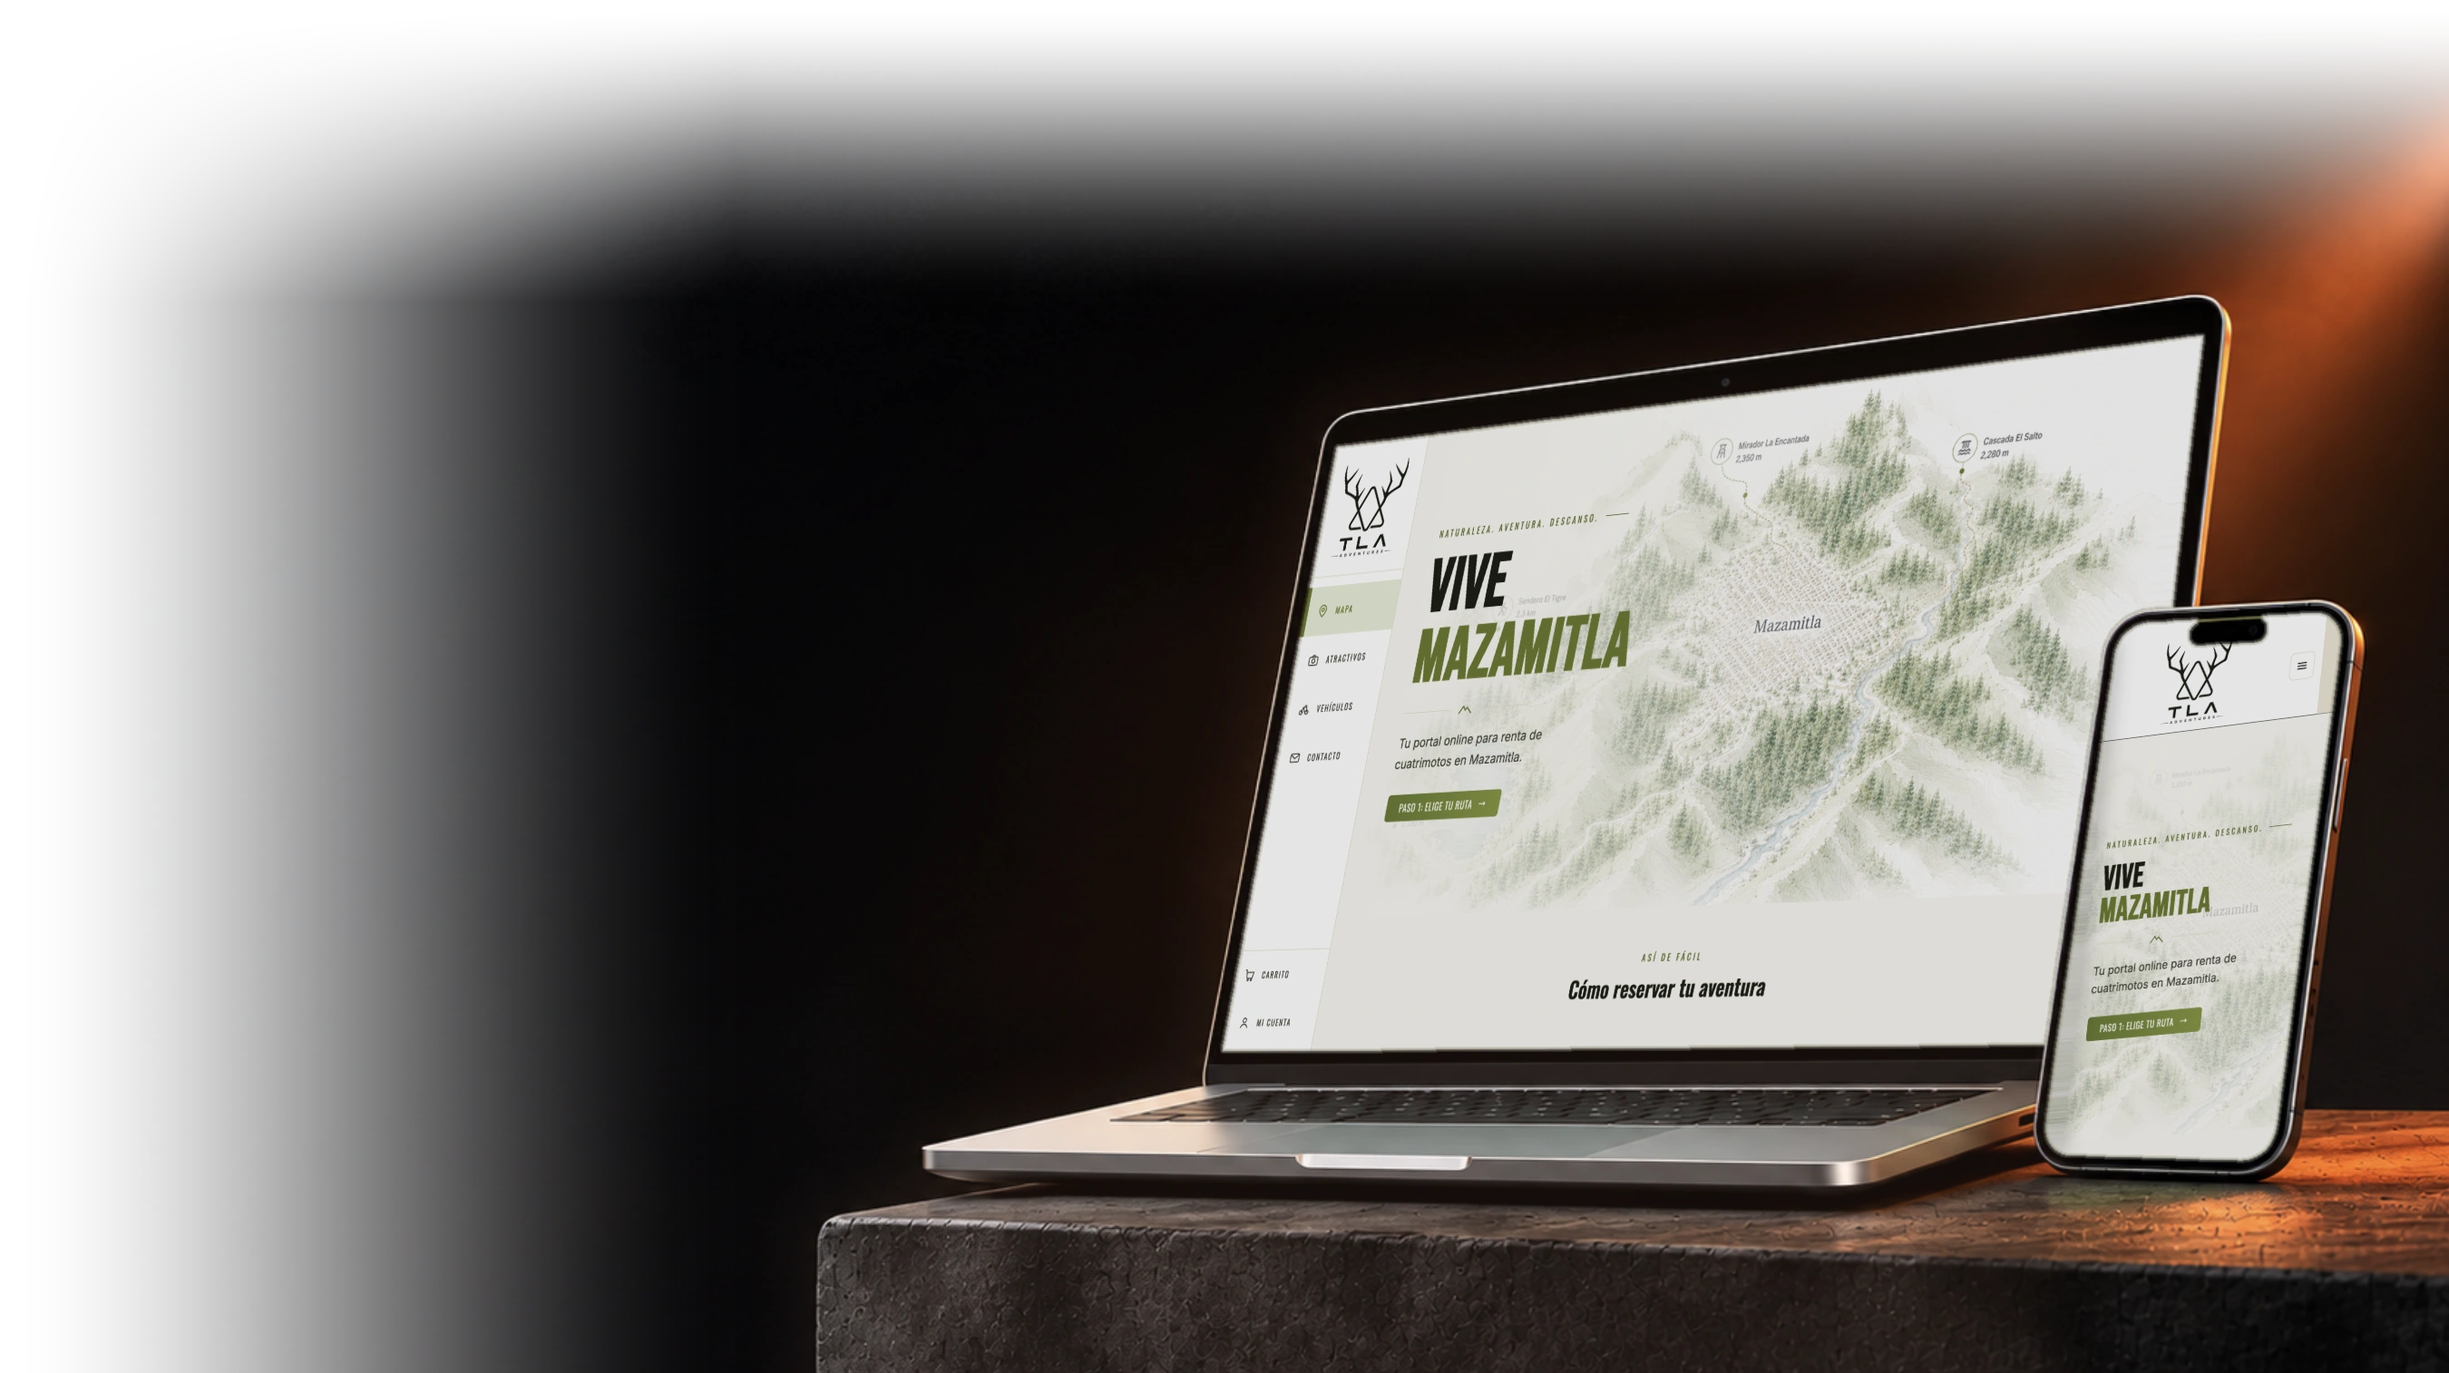
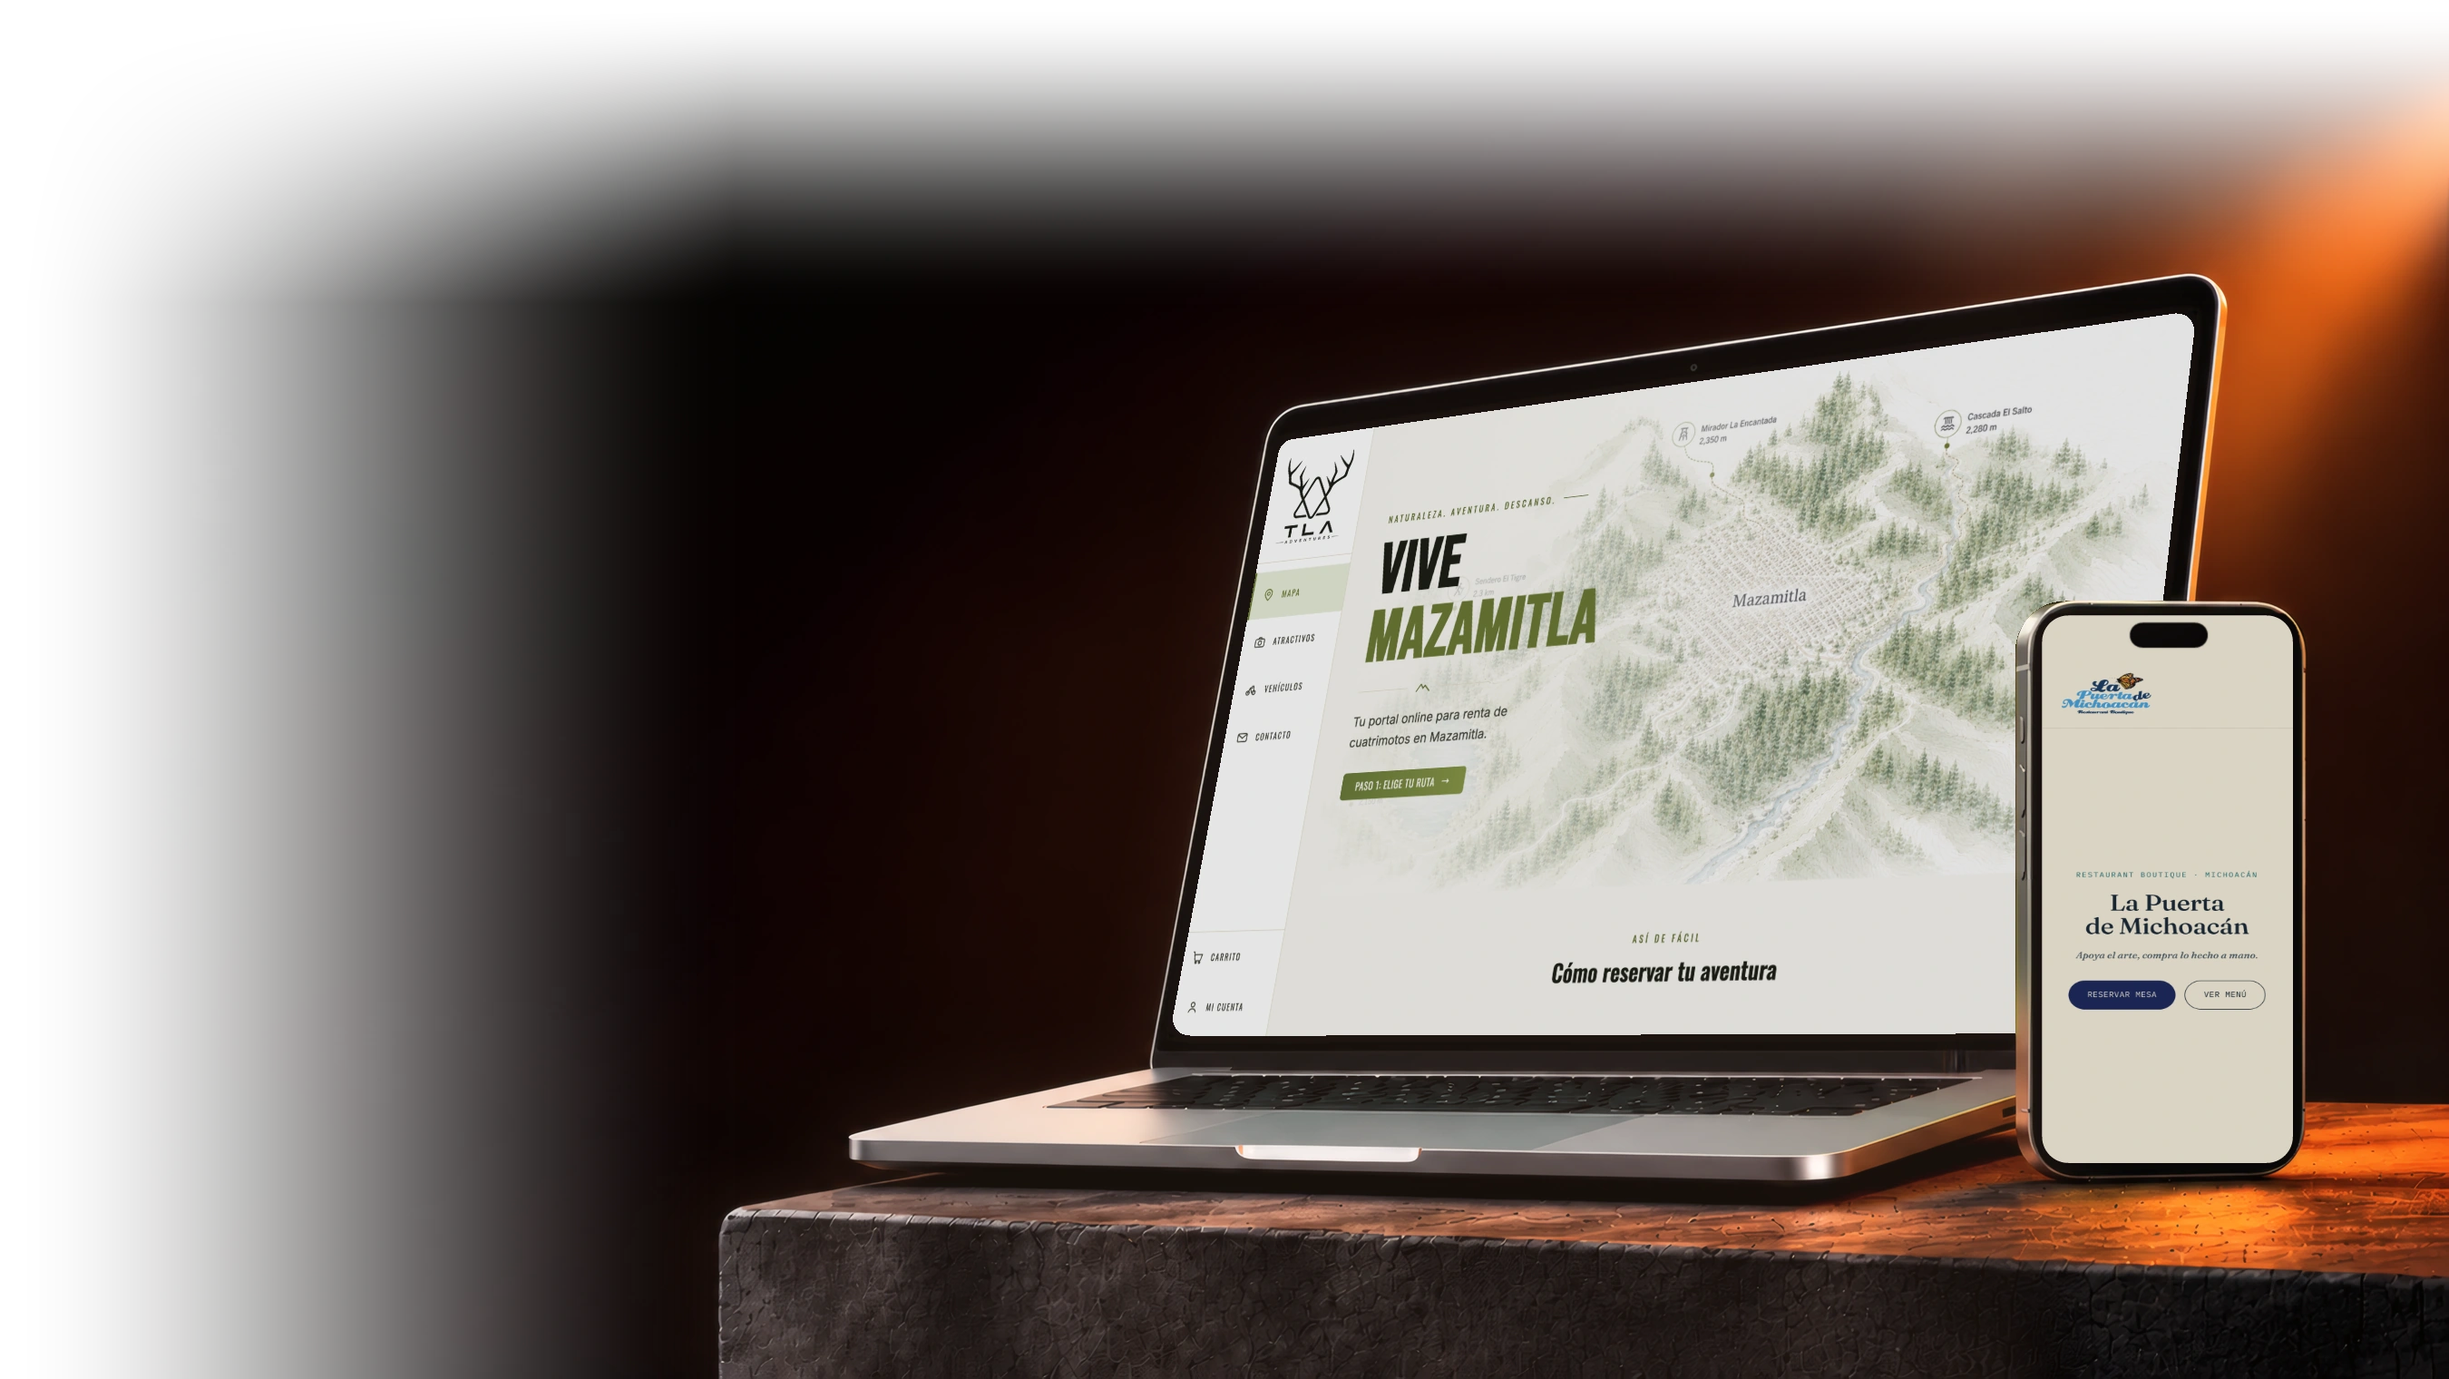
feat(paginas-web): hero con laptop y celular compuestos, bordes nitidos
- render con pantallas en verde plano, escalado 4x antes de componer
- filo metalico y esquinas del celular preservados (recorte medido de la imagen)
- celular con contenido de La Puerta de Michoacan, isla dinamica proporcionada
- variante de 1200 px para movil y alt text actualizado

Claude-Session: https://claude.ai/code/session_01MBbEDMNdh2oub1BAdcJzwz

Changed region(s): [[0.28, 0.0621, 1.0, 1.0]]

diff --git a/components/paginas-web/Hero.tsx b/components/paginas-web/Hero.tsx
@@ -1,4 +1,3 @@
-import Image from 'next/image'
 
 const benefits = [
   {
@@ -98,15 +97,16 @@ export function Hero() {
         </div>
 
         <div className="pointer-events-none relative z-0 mt-10 aspect-[2700/1514] w-full lg:absolute lg:top-0 lg:right-0 lg:bottom-[110px] lg:left-[30%] lg:z-0 lg:mt-0 lg:aspect-auto lg:w-auto lg:[-webkit-mask-image:linear-gradient(to_right,transparent_0%,#000_22%),linear-gradient(to_top,transparent_0%,#000_28%)] lg:[mask-image:linear-gradient(to_right,transparent_0%,#000_22%),linear-gradient(to_top,transparent_0%,#000_28%)] lg:[-webkit-mask-composite:source-in] lg:[mask-composite:intersect]">
-          <Image
-            src="/paginas-web/devices-hero.webp"
-            alt="Captura del sitio de TLA Adventures en laptop y celular"
-            fill
-            priority
-            unoptimized
-            sizes="100vw"
-            className="object-contain object-right lg:object-cover lg:object-[right_bottom]"
-          />
+          <picture>
+            <source media="(min-width: 1024px)" srcSet="/paginas-web/devices-hero.webp" />
+            <img
+              src="/paginas-web/devices-hero-1200.webp"
+              alt="Laptop con el sitio de TLA Adventures y celular con el sitio de La Puerta de Michoacán, páginas web hechas por Delta Analytics"
+              fetchPriority="high"
+              decoding="async"
+              className="absolute inset-0 h-full w-full object-contain object-right lg:object-cover lg:object-[right_bottom]"
+            />
+          </picture>
         </div>
 
         <div

diff --git a/scripts/compose_hero_devices.py b/scripts/compose_hero_devices.py
@@ -125,6 +125,39 @@ def draw_quad(img, quad, color):
         cv2.circle(img, tuple(p.astype(int)), 10, color, -1)
 
 
+def refine_quad(mask, quad, band=10, lo=0.2, hi=0.8):
+    # Esquinas = interseccion de la recta de cada borde (las esquinas redondeadas
+    # desplazan los vertices de approxPolyDP hacia adentro y rompen la perspectiva)
+    cnts, _ = cv2.findContours((mask > 0).astype(np.uint8), cv2.RETR_EXTERNAL, cv2.CHAIN_APPROX_NONE)
+    pts = max(cnts, key=cv2.contourArea).reshape(-1, 2).astype(np.float32)
+    q = quad.astype(np.float32)
+    lines = []
+    for i in range(4):
+        a, b = q[i], q[(i + 1) % 4]
+        d = b - a
+        L = float(np.linalg.norm(d))
+        u = d / L
+        n = np.array([-u[1], u[0]], dtype=np.float32)
+        rel = pts - a
+        t = rel @ u / L
+        dist = np.abs(rel @ n)
+        sel = pts[(t > lo) & (t < hi) & (dist < band)]
+        if len(sel) < 20:
+            return quad
+        vx, vy, x0, y0 = cv2.fitLine(sel, cv2.DIST_HUBER, 0, 0.01, 0.01).ravel()
+        lines.append((np.array([x0, y0], np.float32), np.array([vx, vy], np.float32)))
+    out = []
+    for i in range(4):
+        p1, d1 = lines[(i - 1) % 4]
+        p2, d2 = lines[i]
+        A = np.array([d1, -d2], dtype=np.float32).T
+        if abs(np.linalg.det(A)) < 1e-6:
+            return quad
+        sol = np.linalg.solve(A, p2 - p1)
+        out.append(p1 + sol[0] * d1)
+    return np.array(out, dtype=np.float32)
+
+
 def add_sheen(img, mask, strength=0.07):
     """Soft diagonal highlight confined to the screen's own bounding box."""
     ys, xs = np.where(mask > 0)
@@ -179,6 +212,153 @@ def main():
     draw_quad(debug, laptop_quad, (0, 0, 255))
     draw_quad(debug, phone_quad, (255, 0, 0))
     cv2.imwrite(DEBUG_OUT, debug)
+    phone_quad = refine_quad(phone_mask, phone_quad)
+    # bordes limpios: ambas pantallas = poligonos desde lineas ajustadas (laptop: solo los tramos visibles de cada lado)
+    phone_mask = cv2.bitwise_and(phone_mask, mask)
+    _el = lambda n: cv2.getStructuringElement(cv2.MORPH_ELLIPSE, (n, n))
+    def _fit(pts, a, b, t0, t1, band=14):
+        d = b - a; L = np.linalg.norm(d); u = d / L
+        t = (pts - a) @ u / L
+        dist = np.abs((pts - a) @ np.array([-u[1], u[0]]))
+        sel = pts[(t > t0) & (t < t1) & (dist < band)]
+        vx, vy, x0, y0 = cv2.fitLine(sel, cv2.DIST_HUBER, 0, 0.01, 0.01).ravel()
+        return np.array([x0, y0]), np.array([vx, vy])
+    def _cross(l1, l2):
+        (p1, d1), (p2, d2) = l1, l2
+        s_, _ = np.linalg.solve(np.array([d1, -d2]).T, p2 - p1)
+        return p1 + s_ * d1
+    _lp = laptop_cnt.reshape(-1, 2).astype(np.float32)
+    _q = np.array(laptop_quad, np.float32)
+    try:
+        _top = _fit(_lp, _q[0], _q[1], 0.15, 0.85)
+        _rig = _fit(_lp, _q[1], _q[2], 0.12, 0.34, band=40)
+        _bot = _fit(_lp, _q[2], _q[3], 0.10, 0.85)
+        _lef = _fit(_lp, _q[3], _q[0], 0.20, 0.80)
+        _nq = np.array([_cross(_lef, _top), _cross(_top, _rig), _cross(_rig, _bot), _cross(_bot, _lef)], np.float32)
+    except Exception as _e:
+        _nq = _q + 1000
+        print("laptop: no se pudo ajustar:", _e)
+    print("laptop esquinas antes:", _q.round(0).tolist())
+    print("laptop esquinas ahora:", _nq.round(0).tolist())
+    if np.abs(_nq - _q).max() < 200:
+        laptop_quad = _nq
+        _lm = np.zeros(laptop_mask.shape, np.uint8)
+        cv2.fillPoly(_lm, [_nq.astype(np.int32)], 255)
+        _lm = cv2.dilate(cv2.erode(_lm, _el(41)), _el(41))
+        _lm = cv2.erode(_lm, _el(3))
+        laptop_mask = cv2.bitwise_and(_lm, cv2.dilate(laptop_mask, _el(5)))
+    else:
+        print("laptop: ajuste descartado, se queda el anterior")
+    _pm = np.zeros(phone_mask.shape, np.uint8)
+    cv2.fillPoly(_pm, [phone_quad.astype(np.int32)], 255)
+    _pm = cv2.dilate(cv2.erode(_pm, _el(61)), _el(61))
+    _pm = cv2.erode(_pm, _el(3))
+    _hol = cv2.bitwise_and(cv2.erode(_pm, _el(17)), cv2.bitwise_not(phone_mask))
+    _n, _lb, _st, _ = cv2.connectedComponentsWithStats(_hol)
+    _isla = np.zeros_like(_pm)
+    _cand = [_i for _i in range(1, _n) if _st[_i, cv2.CC_STAT_AREA] > 300]
+    if _cand:
+        _i = max(_cand, key=lambda k: _st[k, cv2.CC_STAT_AREA])
+        _x, _y, _w, _h = [int(v) for v in _st[_i, :4]]
+        _r = _h // 2 + 2
+        cv2.rectangle(_isla, (_x + _r - 2, _y - 2), (_x + _w - _r + 2, _y + _h + 2), 255, -1)
+        cv2.circle(_isla, (_x + _r - 2, _y + _h // 2), _r, 255, -1)
+        cv2.circle(_isla, (_x + _w - _r + 2, _y + _h // 2), _r, 255, -1)
+        print("isla dinamica detectada:", _w, "x", _h)
+    _ys, _xs = np.nonzero(_isla)
+    if len(_xs) > 0:
+        _k = 0.86  # isla chica
+        _cx = (int(_xs.min()) + int(_xs.max())) / 2.0
+        _cy = (int(_ys.min()) + int(_ys.max())) / 2.0
+        _hw = (int(_xs.max()) - int(_xs.min()) + 1) * _k / 2.0
+        _hh = (int(_ys.max()) - int(_ys.min()) + 1) * _k / 2.0
+        _S, _P = 4, 8
+        _x0, _y0 = int(_cx - _hw) - _P, int(_cy - _hh) - _P
+        _rw, _rh = int(2 * _hw) + 2 * _P + 2, int(2 * _hh) + 2 * _P + 2
+        if _x0 >= 0 and _y0 >= 0 and _x0 + _rw <= _isla.shape[1] and _y0 + _rh <= _isla.shape[0]:
+            _big = np.zeros((_rh * _S, _rw * _S), np.uint8)
+            _bcx, _bcy = (_cx - _x0 + 0.5) * _S, (_cy - _y0 + 0.5) * _S
+            _r = int(round(_hh * _S))
+            cv2.rectangle(_big, (int(_bcx - _hw * _S + _r), int(_bcy - _r)), (int(_bcx + _hw * _S - _r), int(_bcy + _r)), 255, -1)
+            cv2.circle(_big, (int(_bcx - _hw * _S + _r), int(_bcy)), _r, 255, -1)
+            cv2.circle(_big, (int(_bcx + _hw * _S - _r), int(_bcy)), _r, 255, -1)
+            _small = cv2.resize(_big, (_rw, _rh), interpolation=cv2.INTER_AREA)
+            _isla = np.zeros_like(_isla)
+            _isla[_y0:_y0 + _rh, _x0:_x0 + _rw] = _small
+    _isla = cv2.erode(_isla, _el(5))  # isla mas fina
+    phone_mask = cv2.bitwise_and(_pm, cv2.bitwise_not(_isla))
+    # cobertura exacta de la pantalla del celular (4x + distancias): antialias real, sin escalones
+    _S4 = 4
+    _qq = np.asarray(phone_quad, np.float64).reshape(-1, 2)
+    _bx0, _by0 = max(int(_qq[:, 0].min()) - 24, 0), max(int(_qq[:, 1].min()) - 24, 0)
+    _bx1, _by1 = min(int(_qq[:, 0].max()) + 24, _pm.shape[1]), min(int(_qq[:, 1].max()) + 24, _pm.shape[0])
+    _bw, _bh = _bx1 - _bx0, _by1 - _by0
+    _bg = np.zeros((_bh * _S4, _bw * _S4), np.uint8)
+    cv2.fillConvexPoly(_bg, np.round((_qq - [_bx0, _by0]) * _S4 + (_S4 - 1) / 2.0).astype(np.int32), 255)
+    _d1 = cv2.distanceTransform(_bg, cv2.DIST_L2, cv2.DIST_MASK_PRECISE)
+    _d2 = cv2.distanceTransform(np.where(_d1 >= 30.0 * _S4, 0, 255).astype(np.uint8), cv2.DIST_L2, cv2.DIST_MASK_PRECISE)
+    _cov = np.where(_d2 <= 29.0 * _S4, 255, 0).astype(np.uint8)
+    _pm_aa = np.zeros(_pm.shape, np.float32)
+    _pm_aa[_by0:_by1, _bx0:_bx1] = cv2.resize(_cov, (_bw, _bh), interpolation=cv2.INTER_AREA).astype(np.float32) / 255.0
+    # occ_cut: el cuerpo del celular tapa la laptop (6 px alrededor, ~28 px por el lateral izquierdo): no pintar ahi
+    _poly = np.zeros(phone_mask.shape, np.uint8)
+    cv2.fillPoly(_poly, [phone_quad.astype(np.int32)], 255)
+    _base = cv2.dilate(_poly, _el(13))
+    occ_cut = _base.copy()
+    for _s in range(2, 23, 2):
+        occ_cut = cv2.bitwise_or(occ_cut, np.roll(_base, -_s, axis=1))
+    occ_round = cv2.dilate(cv2.erode(occ_cut, _el(69)), _el(69))  # esquinas redondeadas como el cuerpo real
+    occ_cut = occ_round
+    _antes = int((laptop_mask > 0).sum())
+    import os as _os
+    _UP = int(_os.environ.get('UP', '-1'))  # -1 = medirlo de la imagen
+    if _UP < 0:
+        # grosor real de filo+bezel arriba de la pantalla: de su borde superior hacia arriba hasta el primer
+        # pixel verde de la laptop; asi el recorte llega justo al filo metalico y no lo pisa
+        _meds = []
+        for _c in range(int(phone_quad[:, 0].min()) + 60, int(phone_quad[:, 0].max()) - 60, 6):
+            _yc = np.nonzero(_poly[:, _c])[0]
+            if len(_yc) == 0:
+                continue
+            _yt = int(_yc.min())
+            for _yy in range(_yt - 1, max(_yt - 60, 0), -1):
+                if mask[_yy, _c] > 0:
+                    _meds.append(_yt - _yy - 1)
+                    break
+        _M = int(np.median(_meds)) if len(_meds) >= 5 else None
+        _UP = max(_M - 6, 0) if _M is not None else 8  # 6 = lo que ya cubre _base (dilate 13)
+        print('grosor filo+bezel arriba:', _M, 'px (%d columnas) -> UP =' % len(_meds), _UP)
+    _up = occ_cut.copy()
+    for _k in range(1, _UP + 1):
+        _up = np.maximum(_up, np.roll(occ_cut, -_k, axis=0))
+    occ_cut = _up  # protege el marco superior
+    # radio real de la esquina del celular: del borde exterior hacia la diagonal hasta tocar el cuerpo
+    _rad_env = _os.environ.get('RAD')
+    _RAD = 55
+    if _rad_env is not None:
+        _RAD = int(_rad_env)
+    else:
+        try:
+            _qx, _qy = int(phone_quad[:, 0].min()), int(phone_quad[:, 1].min())
+            _row, _col = _qy + 130, _qx + 90
+            _X0 = next(x_ for x_ in range(_qx - 60, _qx + 10) if mask[_row, x_] == 0)
+            _Y0 = next(y_ for y_ in range(_qy - 60, _qy + 10) if mask[y_, _col] == 0)
+            _t = next(t_ for t_ in range(1, 60) if mask[_Y0 + t_, _X0 + t_] == 0)
+            _RAD = int(min(max(round(_t * 3.414), 35), 70))
+            print('radio real de la esquina del celular: X0=%d Y0=%d t=%d -> RAD = %d' % (_X0, _Y0, _t, _RAD))
+        except StopIteration:
+            print('radio de la esquina: no se pudo medir, RAD = 55')
+    _RR = _RAD * 2 + 1
+    occ_cut = cv2.dilate(cv2.erode(occ_cut, _el(_RR)), _el(_RR))  # esquina redonda como el celular
+    laptop_mask[occ_cut > 0] = 0
+    print("occ_cut: pixeles quitados a la laptop:", _antes - int((laptop_mask > 0).sum()))
+    import os
+    _rot = float(os.environ.get("PHONE_ROT", "0"))
+    if _rot:
+        _c = phone_quad.mean(axis=0)
+        _t = np.deg2rad(_rot)
+        _R = np.array([[np.cos(_t), -np.sin(_t)], [np.sin(_t), np.cos(_t)]], dtype=np.float32)
+        phone_quad = ((phone_quad - _c) @ _R.T * 1.06 + _c).astype(np.float32)
 
     # --- 1) despill the whole photo (bezel edges + phone notch pick up green spill) ---
     base = despill(img)
@@ -210,11 +390,29 @@ def main():
         return alpha.astype(np.float32)
 
     lap_alpha = soft_alpha(laptop_mask)[:, :, None]
+    _LK = float(_os.environ.get('LK', '4'))
+    lap_alpha = np.clip((lap_alpha - 0.5) * _LK + 0.5, 0.0, 1.0)  # borde nitido de la laptop
     phone_alpha = soft_alpha(phone_mask)[:, :, None]
 
     composed = base.astype(np.float32)
+    _neg = np.array([8, 8, 10], np.float32)  # negro del marco
+    _lring = cv2.dilate(laptop_mask, _el(17)); _lring[occ_cut > 0] = 0
+    _lra = cv2.GaussianBlur(_lring.astype(np.float32) / 255.0, (0, 0), 1.2)[:, :, None]
+    _lra[occ_cut > 0] = 0  # el negro del anillo (ya difuminado) no toca el filo del celular
+    composed = composed * (1 - _lra) + _neg * _lra
     composed = composed * (1 - lap_alpha) + warped_laptop.astype(np.float32) * lap_alpha
+    _pring = cv2.dilate(cv2.bitwise_or(phone_mask, _isla), _el(15))  # borde afilado
+    _py = np.nonzero(phone_mask.any(axis=1))[0]
+    if len(_py): _pring[:max(int(_py.min()) - 2, 0), :] = 0  # sin anillo extra arriba
+    _pra = cv2.GaussianBlur(_pring.astype(np.float32) / 255.0, (0, 0), 0.7)[:, :, None]
+    composed = composed * (1 - _pra) + _neg * _pra
+    import os as _os
+    _PHK = float(_os.environ.get('PHK', '2.5'))
+    phone_alpha = np.clip((phone_alpha - 0.5) * _PHK + 0.5, 0.0, 1.0)  # borde de pantalla nitido
+    phone_alpha = (_pm_aa * (1.0 - _isla.astype(np.float32) / 255.0))[:, :, None]  # borde con antialias real
     composed = composed * (1 - phone_alpha) + warped_phone.astype(np.float32) * phone_alpha
+    _ia = cv2.GaussianBlur(cv2.dilate(_isla, _el(5)).astype(np.float32) / 255.0, (0, 0), 0.6)[:, :, None]
+    composed = composed * (1 - _ia) + _neg * _ia
     composed = np.clip(composed, 0, 255).astype(np.uint8)   
     cv2.imwrite("_ref/dbg-composed.png", composed)
 
